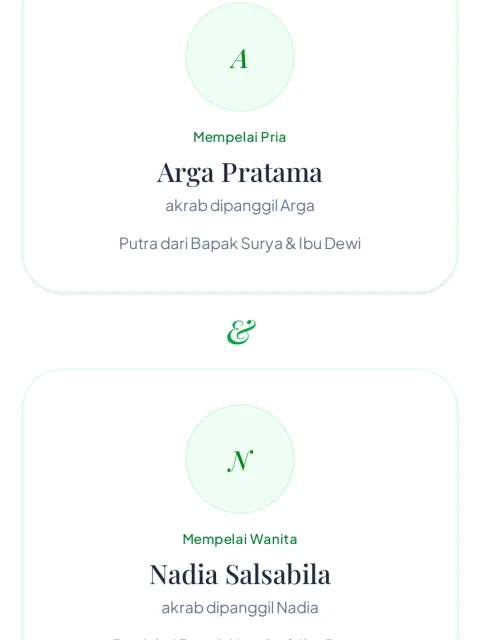
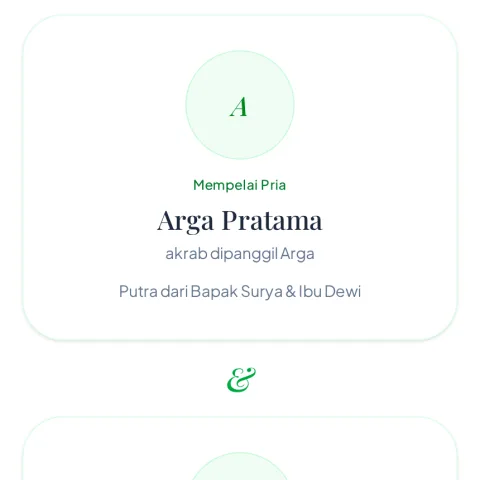
fix(galeri): thumbnail persegi 1:1 ganti rasio 3:4
Rasio 3:4 (0.750) justru lebih menjulur daripada 4:5 (0.800) yang dipakai
sebelumnya, sehingga kartu terasa makin melonjong. Sekarang 480x480 persegi:
kartu tidak menjulur, grid rapi di berapa pun jumlah template, dan ukuran
berkas turun dari 64KB jadi 31KB.

Kesalahan arah ini tidak tertangkap karena verifikasi hanya memastikan
sumber dan target punya rasio identik (0.75044 vs 0.75000, selisih 0.044%).
Distortion memang nol, tetapi proporsi yang dipilih keliru sejak awal.

Deskripsi landing juga disesuaikan dari "Lima desain" menjadi mengambil
jumlah template dari TEMPLATES.length, karena landing sekarang hanya
menampilkan tiga dari lima.

diff --git a/frontend/src/pages/Landing.jsx b/frontend/src/pages/Landing.jsx
@@ -600,8 +600,9 @@ function TemplateGallery({ onPreview }) {
             Pilih tampilan yang paling kalian suka
           </h2>
           <p className="mt-4 text-base leading-7 text-slate-600">
-            Lima desain dengan warna, bentuk, dan susunan bagian yang berbeda. Buka contohnya untuk
-            melihat seluruh halaman undangan, dan ganti kapan saja tanpa biaya tambahan.
+            Ada {TEMPLATES.length} desain dengan warna, bentuk, dan susunan bagian yang berbeda.
+            Buka contohnya untuk melihat seluruh halaman undangan, dan ganti kapan saja tanpa
+            biaya tambahan.
           </p>
         </div>
 
@@ -616,7 +617,7 @@ function TemplateGallery({ onPreview }) {
               >
                 <TemplatePhoto
                   template={template}
-                  className="aspect-[3/4] w-full rounded-xl ring-1 ring-rose-100/80"
+                  className="aspect-square w-full rounded-xl ring-1 ring-rose-100/80"
                 />
                 <span className="block px-1.5 pt-3 pb-1">
                   <span className="block font-display text-lg text-slate-900">{template.label}</span>

diff --git a/frontend/src/components/templates/TemplateCard.jsx b/frontend/src/components/templates/TemplateCard.jsx
@@ -118,7 +118,7 @@ export default function TemplateCard({ template, selected, onSelect, onPreview }
         onClick={onSelect}
         className="block rounded-xl focus:outline-none focus-visible:ring-2 focus-visible:ring-rose-500 focus-visible:ring-offset-2"
       >
-        <TemplatePhoto template={template} className="aspect-[3/4] w-full rounded-xl" />
+        <TemplatePhoto template={template} className="aspect-square w-full rounded-xl" />
         <span className="mt-3 flex items-center justify-between gap-2">
           <span className="text-sm font-semibold text-slate-900">{template.label}</span>
           <span className="flex gap-1" aria-hidden="true">

diff --git a/frontend/src/pages/Templates.jsx b/frontend/src/pages/Templates.jsx
@@ -64,7 +64,7 @@ export default function TemplatesPage() {
               >
                 <TemplatePhoto
                   template={template}
-                  className="aspect-[3/4] w-full rounded-xl ring-1 ring-rose-100/80"
+                  className="aspect-square w-full rounded-xl ring-1 ring-rose-100/80"
                 />
                 <span className="block px-1.5 pt-3 pb-1">
                   <span className="block font-display text-lg text-slate-900">

diff --git a/scripts/crop-thumbs.php b/scripts/crop-thumbs.php
@@ -22,7 +22,7 @@ $dir = __DIR__.'/../frontend/public/thumbs';
 $templates = ['klasik', 'minimalis', 'floral', 'ceria', 'elegan'];
 
 $lebar = 480;
-$tinggi = 640;   // 3:4 — lebih tinggi dari 4:5, tetapi tidak melonjong
+$tinggi = 480;   // 1:1 persegi — grid rapi dan tidak menjulur seperti 3:4
 $kualitas = 82;
 
 $totalMentah = 0;
@@ -55,7 +55,7 @@ foreach ($templates as $nama) {
     // Mengambil dari judul section membuat kartu mempelai kedua kepotong:
     // kartunya tinggi (foto + nama + panggilan + orang tua). Jadi potongan
     // digeser ke bawah melewati judul, langsung ke badan kartu.
-    $offsetY = (int) round($w * 0.26);
+    $offsetY = (int) round($w * 0.16);
     if ($offsetY + $potongH > $h) {
         $offsetY = max(0, $h - $potongH);
     }
